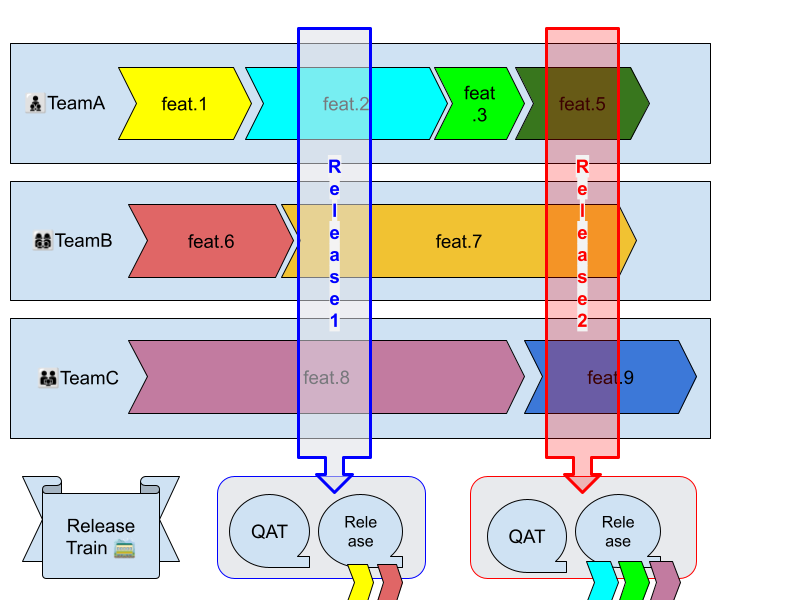
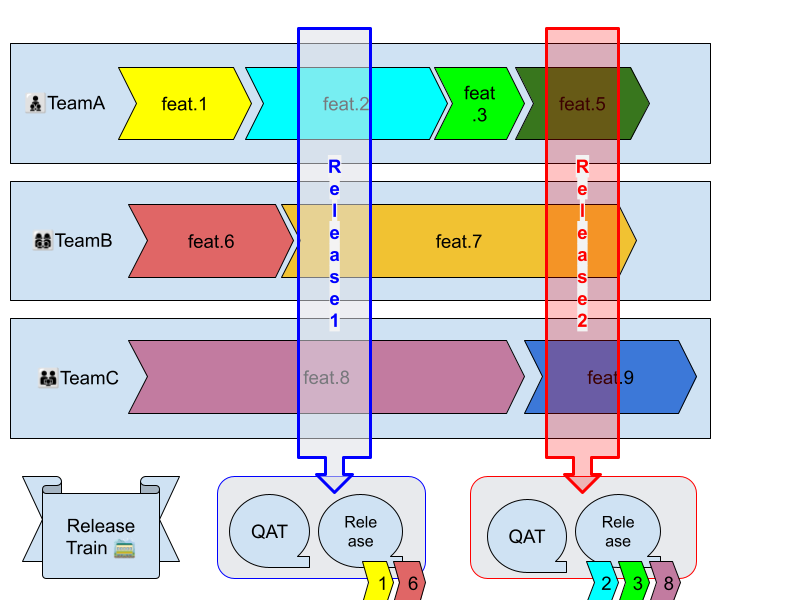
wip

Changed region(s): [[0.4375, 0.93, 0.5312, 1.0], [0.75, 0.96, 0.8438, 0.99]]

diff --git a/slides.md b/slides.md
@@ -100,7 +100,7 @@ transition: fade-out
 ---
 
 # 複雑なドメインと向き合っています  
-ハンドブックとは？となる圧巻の1.5K頁オーバー。レセプト業務の基盤システムを開発しています！
+ハンドブックとは？となる圧巻の 1.5K 頁オーバー。レセプト業務の基盤システムを開発しています！
 
 <img src="https://github.com/k2tzumi/activerecord-pattern-unlearning-clean-architecture/blob/main/public/ISBN-978-4805887332.png?raw=true" />
 
@@ -170,13 +170,13 @@ transition: slide-up
 プロダクトのリリース戦略を考えるきっかけになれば嬉しいです　　
 
 * 想定ターゲット層  
-  * リリース間隔が2週〜1ヶ月程度（定期リリース）のプロダクト
+  * リリース間隔が 2 週〜1 ヶ月程度（定期リリース）のプロダクト
   * 開発プロセスにリリース前の受け入れテストがある  
   品質保証テスト(QAT)、ユーザー受入れテスト(UAT)
   * 複数リポジトリに分割され依存関係があるサービス  
   マイクロサービスとか、フロントエンド（アプリ含む）・バックエンドに分かれている
   * 複数チームによる開発
-  * SREとかPlatform Engineering領域
+  * SRE とか Platform Engineering 領域
 
 ---
 layout: default
@@ -204,7 +204,8 @@ transition: slide-up
 
 * だんだんシステムが複雑になり、依存関係が発生してデプロイの難易度があがる
 * 関係者も多数だと調整が大変になっていく
-* 開発規模がばらばらな修正が平行して発生し、開発着手順がそのままリリース順とはならない
+* 開発着手順がそのままリリース順とはならない  
+開発規模の大小さまざまで、並行開発される
 * 内外に向けての適切なタイミングでリリース内容を情報共有しないといけない  
 必要な情報共有として修正内容、影響範囲、影響度とか多岐にわたる
 * システム全体と各関係者の状況を把握していないとリリース管理ができない
@@ -217,7 +218,7 @@ layout: center
 往々としてリーダー的なメンバーへ集中しがち。慣れな部分があるけれど、、  
 
 この機能はいつリリースだっけ？と脳内リソースを一定消費してしまう  
-リリースの都度の判断を求められる
+リリース都度に判断を求められる
 
 ---
 layout: statement
@@ -228,15 +229,15 @@ layout: statement
 ---
 
 # プロジェクト概要＆特性
-所謂マイクロサービスの一つのサービス
+所謂マイクロサービスの1つのサービス
 
-* 自社サービスから接続するBaaS（レセプト業務を扱うAPI）  
+* 自社サービスから接続する BaaS（レセプト業務を扱う API）  
 * スキーマ駆動開発を採用
 * 接続するアプリケーションが複数存在し、それぞれ別チームが運営
 * シングルテナンシー（single-tenancy）で利用する想定[^1]  
 稼働するバージョンがサービスによって異なる可能性がある
-* 3チーム体制で担当サービスを平行開発する  
-* 月1回程度の定期リリースを行う  
+* 3 チーム体制で担当サービスを平行開発する  
+* 月 1 回程度の定期リリースを行う  
 リリース前に品質保証テストを実施する
 
 [^1]: センシティブな情報を扱うので、データ管理上のリスクがある。  
@@ -250,7 +251,7 @@ transition: slide-up
 プロジェクトのリリース管理上での課題感
 
 * バージョン管理が煩雑になりそう
-* アプリケーションとAPI仕様書のバージョンの同期して共しないと混乱しそう  
+* アプリケーションと API 仕様書のバージョンの同期して共有しないと混乱しそう  
 スキーマを公開してから、クライアント要望等で見直しが入る可能性がある
 * クライアント＆環境毎にどのバージョンが反映されているか？把握するのが難しい  
 仕様確認や不具合発生時の問い合わせが複数チームから発生する
@@ -266,31 +267,38 @@ layout: statement
 # リリーストレイン
 独立したチームが協調してリリース計画を行う
 
-リリース日を決めてリリースブランチカットを行い、リリースに間に合わなかった機能は次のリリースへ先送りする
+リリース日を決めてリリースブランチカットを行い、リリースに間に合わなかった機能は  
+次のリリースタイミングに先送りする
 <img src="release-train.png" class="h-90" alt="リリーストレイン" />  
 
 ---
 
 # リリースブランチカットするタイミングについて
-別プロジェクトでの事例
+別プロジェクトでの事例(git-flow)
 
-1. 開発スコープを決めてQAリソースも抑えてリリース日を決める
-2. 開発開始してテスト可能になったらdevelopブランチをテスト環境に開発者がリリース
-3. QAがテスト環境で検証。問題があれば2からやり直し
-4. リリース日のおよそ1週間前にタグ付け <div class="mention">←　ココ！</div>  
-基本はdevelopブランチをタグ付け。   
-<span v-mark.underline.orange>QAで問題があったり間に合わない場合は、Revertしたり</span>、しなかったりして、いい感じにタグ付け
-5. ステージング環境でタグ付けしたバージョンでリリース・リハーサル実施
+1. 開発スコープを決めて QA リソースも抑えてリリース日を決める
+2. 開発開始してテスト可能になったら develop 用 build [^1] をテスト環境に開発者がリリース  
+任意のタイミングで任意のブランチでのビルドも可
+3. QA がテスト環境で検証。問題があれば 2 からやり直し
+4. リリースのリハーサル日の前日にタグ付け <div class="mention">←　ココ！</div>  
+5. Release 用 build [^2] をステージング環境でリリース・リハーサル実施
 6. リリース日に本番環境へリリース
+
+[^1]: develop ブランチへの merge を起点にしてビルド
+[^2]: タグ付けを起点にしてビルド
 
 ---
 
 # リリースブランチカットするタイミングについて
 細かくリリースブスブランチを切る戦略
 
-* 開発環境へのデプロイするタイミングでタグ付けして統一したバージョンで関係チームと共有する
-* タグ連動したリリースフローを整備する  
-アプリケーションだけでなくAPI仕様書も同じバージョン番号を利用して管理・共有するようにする
+* リリース日が未定な状態でもバージョンタグを付ける  
+開発環境へのデプロイするタイミングでタグを付ける  
+統一したバージョンで関係チームと共有する
+* タグ連動したリリースフローの整備  
+API 仕様書もバージョン管理する  
+アプリケーションにバージョン情報を埋め込む  
+上記の一連をアプリケーションのリリースと連動させたバージョン管理
 
 ---
 
@@ -300,15 +308,18 @@ layout: statement
 * 依存関係のあるサービスのバージョンを明確化  
 共通の統一したバージョンを関係チームと認識となる状態とする
 * バージョンの差分をわかりやすくする
-* 小さくリリースすることでビックバンリリースにさせない
-* 参照しているAPI仕様書のバージョンで安心して [^1] 開発が進められる  
+* 小さくリリースすることでビックバンリリースにさせない  
+バージョンを小出しにすることで、フィードバックサイクルを早くする
+* 参照している API 仕様書のバージョンで安心して [^1] 開発が進められる  
 クライアント側で対応するバージョンの選択の余地ができる  
 
-[^1]:AP仕様書とアプリケーションのバージョンの整合性を取ることで意図しないBreaking Changeを防ぐ
+[^1]:AP 仕様書とアプリケーションのバージョンの整合性を取ることで意図しない Breaking Change を防ぐ
 
 ---
+transition: slide-up
+---
 
-# 懸念される運用負荷＆求められる技術的要素
+# 運用負荷上昇のリスク
 開発プロセスとして正しく運用されなければ絵に描いた餅になる
 
 * サービス提供側（プロバイダ）
@@ -317,24 +328,195 @@ layout: statement
   * ドキュメント反映
   * リリース前準備や付帯作業
 * サービス利用側（コンシューマ）
-  * API仕様書の差分を追うのが大変
+  * API 仕様書の差分を追うのが大変
   * 各環境のデプロイの調整
 
+---
+layout: statement
+---
+
+# どう立ち向かうか？
+
+---
+layout: statement
+---
+
+# OSSの開発スタイルに倣う
+
+---
+layout: statement
+---
+
+# セマンティックバージョニング 2.0.0
+SemVer
+
+```
+<version core> ::= <major> "." <minor> "." <patch>
+```
+
+---
+
+# セマンティックバージョニングとは？
+バージョン番号間で互換性を表す
+
+<blockquote>
+<p>1. 基本的に数字 3 つでバージョンを表し、リリース前の不安定なバージョンには alpha や rc などがつくことがある</p>
+<p>2. 一番左の数字が大きくなったら後方互換性がない</p>
+<p>3. 一番左の数字が 0 のときはどの数字が上がっても後方互換性がない</p>
+<p>4. たまに一番左以外の数字があがったときに後方互換性がない場合がある</p>
+</blockquote>
+<a href="https://dev.classmethod.jp/articles/summary-for-semver/">Semantic Versioning おさらい</a> より
+
+
+---
+layout: statement
 ---
 
 # tagpr
 
-* tagprで実現するPull Request上で進めるOSSのリリースマネジメント
-https://k1low.hatenablog.com/entry/2022/10/04/083000
+---
 
-リリースマネジメントが民主化する
+# tagprとの出会い
+
+<Tweet id="1576165379747246082" />
 
 ---
 
-# 裏話
-じつはこのスライドはtagprでリリース管理されています！  
-GitHub Actionsのワークフローはそちらを見て貰えるとわかります
+# tagprの動き
+[リリース用のpull requestを自動作成し、マージされたら自動でタグを打つtagpr](https://songmu.jp/riji/entry/2022-09-05-tagpr.html)
+
+* リリース用の pull request が GitHub Actions で自動で作られる  
+バージョン番号が書かれたファイルや CHANGELOG.md を自動更新
+* その pull request をマージするとマージコミットに自動でバージョン tag が打たれる  
+semver 前提
+
+---
+layout: statement
+---
+
+# Demo
 
 
+---
 
+# tagprでのリリース＆バージョン管理事例
+実はこのスライドも管理されていたりします
 
+![slidev version](slidev-version.png)
+バージョン番号はこれ（スライド執筆時点）
+
+---
+
+# tagprまとめ
+GitHub flow のデメリットを補う最後のピース
+
+* リリース手順に非常に緩い制約付けがされる  
+* リリースの workflow の起点となる
+* CHANGELOG やリリースノートも連動して作成される
+* リリース作業自体がオープン化される  
+次にリリースされる内容がわかる。BreakingChange もわかる
+
+---
+
+# リリースworkflowで実現したアレコレ
+実装例です
+
+* 次バージョンでの build 作成 [^1]
+* OpenAPI 仕様書公開  
+S3 静的ウェブサイトホスティングに sync  
+以下の 3 つのバージョンでの仕様書公開
+  * latest  
+  リリースタイミングで反映
+  * 次バージョン  
+  リリースブランチに merge 時に反映
+  * 過去のバージョン  
+* OpenAPI の仕様書のバージョン間の差分作成  
+[Tufin/oasdiff](https://github.com/Tufin/oasdiff) で breaking changes を検知
+
+[^1]: ビルドコストを下げる為に現状は停止中
+
+---
+
+# tagprのTips
+
+* 次のバージョン決定が label 連動で制御される  
+Migration 有や OpenAPI 変更有のラベルと連動して Minor アップデートにする
+  ```yaml
+  [tagpr]
+    minorLabels = migration,oas-change
+  ```
+* 仮リースなのか？本リリースなのか？判定する方法  
+tagpr のアクション呼び出し後の outputs.tag を判定して github script 経由で後続の wokflow の dispatch を呼び分ける
+  * 本リリース
+  ```yaml
+  if: steps.tagpr.outputs.tag != ''
+  ```
+  * 仮リリース
+  ```yaml
+  if: steps.tagpr.outputs.tag == ''
+  ```
+
+<!--
+minorLabelsとmajorLabelsは以下のPRで提案させて頂きました  
+https://github.com/Songmu/tagpr/pull/142
+-->
+
+---
+
+# CDパイプライン全体像
+
+* リリースブランチへ Merge 時  
+次のリリース用のリリース用 PR 作成（tagpr 標準機能）  
+次のリリースバージョン用の API 仕様書作成  
+次のリリースバージョン用のコンテナイメージ作成（ECR push）  
+* リリース用 PullRequest Merge 時  
+タグ付け（tagpr 標準機能）  
+CHANGELOG 更新（tagpr 更新）  
+リリース（ノート）作成（tagpr+Github 標準機能）  
+タグ付けバージョンのコンテナイメージ作成（ECR push）    
+API 仕様書公開（Latest 反映）  
+API 仕様書変更点（oasdiff）  
+* リリースフロー  
+runn を利用して ssh 接続してチーム開発環境へのデプロイを自動化  
+テスト環境以降は ECR にプッシュされたイメージを利用して Github Actions でデプロイ
+
+---
+
+# tagprを導入して感じたメリット
+
+* テスト環境以降のデプロイを各サービスのチームメンバーに任せられるようになった  
+リリーストレインでテスト OK になったバージョンを選択してリリースに含める流れ
+* API 変更点の共有を省力化  
+バージョンアップ時にリリースノートのみを共有するだけ  
+最新 API 仕様書が公開サーバー（S3 Web）に自動反映(差分内容見える化)  
+* リリースに伴うソース凍結期間を設けなくて良くなった
+* リリースマネジメントが民主化される  
+次期リリース内容が見えるようになって、各チーム間でいい感じに調整が行われる
+
+---
+
+# tagprの波及効果
+
+* SRE 部門も使い始めた  
+ベースイメージを tagpr でバージョン管理し、依存しているリポジトリから renovate させる
+* workflow を整理できてビルドコストも低減することが可能  
+* 細かくリリースを心がけるようになる  
+tagpr がリリース用 PR を纏めてくれることで、細かくリリースをしようとするマインドになる
+
+---
+
+# 参考資料＆リンク
+
+* Songmu/tagpr  
+https://github.com/Songmu/tagpr
+* リリース用の pull request を自動作成し、マージされたら自動でタグを打つ tagpr  
+https://songmu.jp/riji/entry/2022-09-05-tagpr.html
+* tagpr で実現する Pull Request 上で進める OSS のリリースマネジメント
+https://k1low.hatenablog.com/entry/2022/10/04/083000
+* 登壇を支える技術  
+https://zenn.dev/katzumi/articles/technology-supporting-speakers
+---
+layout: end
+---
+
+ご清聴ありがとうございました
